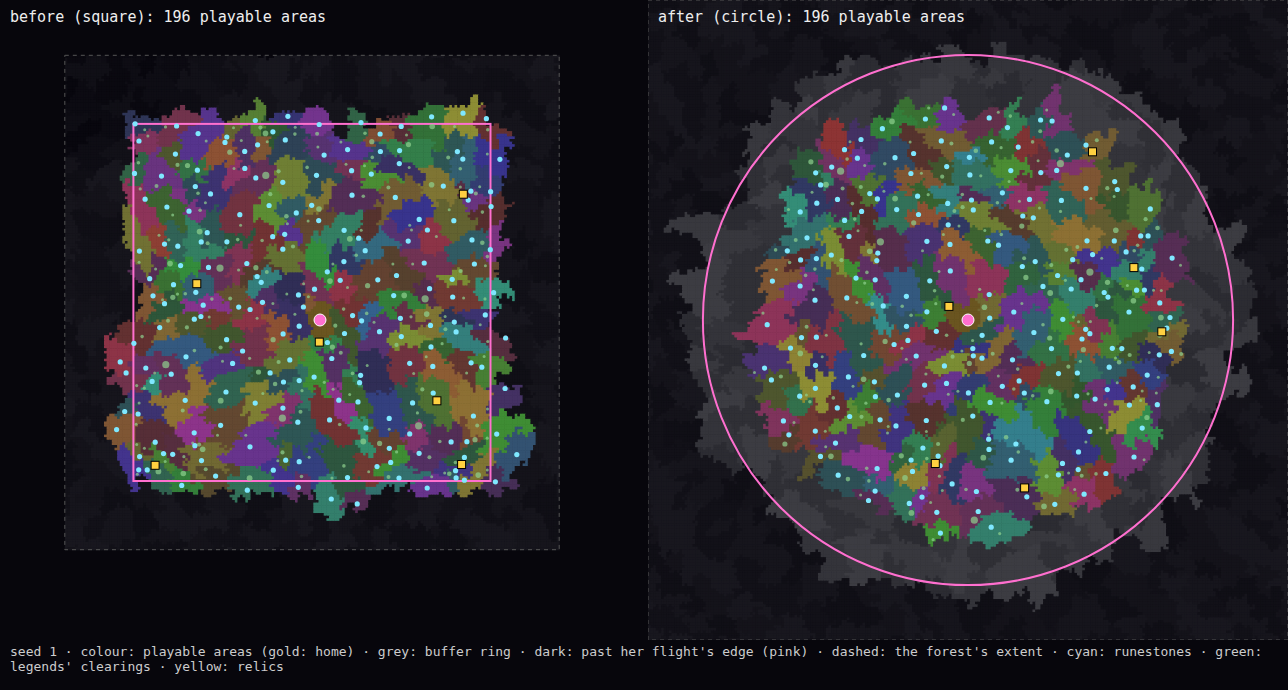
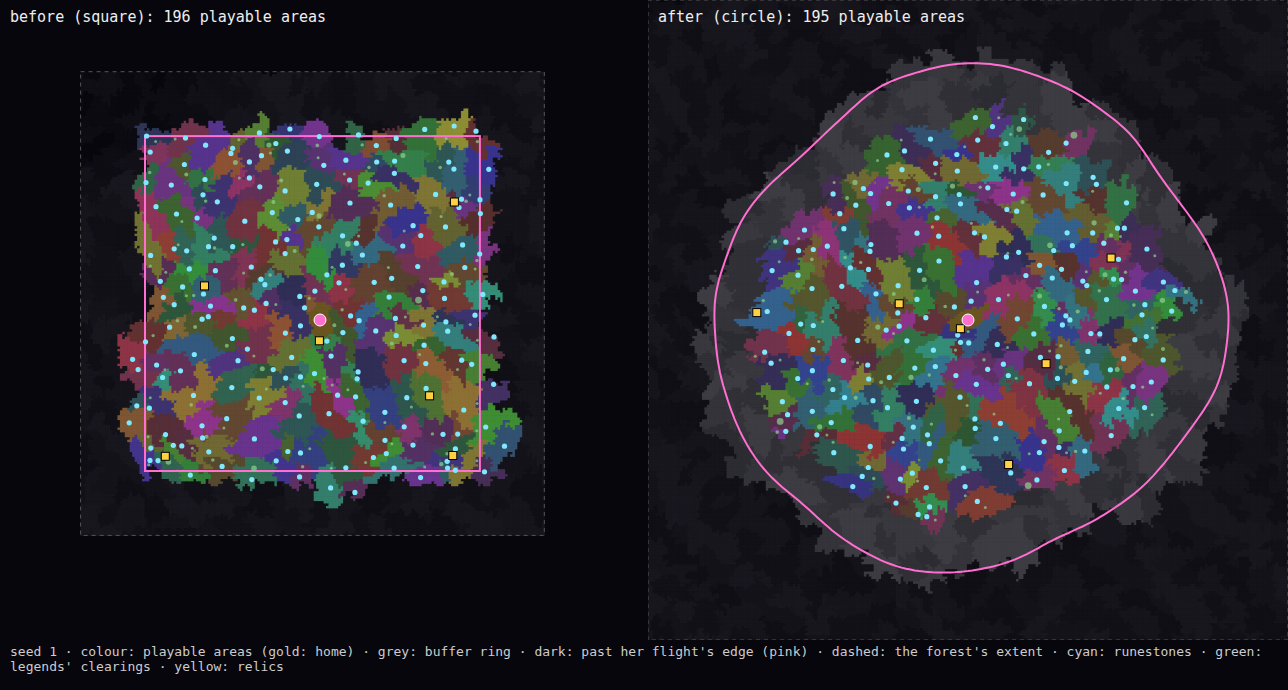
Irregular coast (Ed, 2026-10-06): a seeded, gentle wobble on every edge round home
"The island shouldn't be a totally perfect circle; make the coast
slightly irregular." makeCoast (rules/mapShape.ts) gives the coast's
radius at an angle as a factor of the round one: three low harmonics
(gentle bays and headlands) and a little finer detail, within ±amp (8%).
map.coast(angle) is that function for the map, and every edge uses it:
the playable areas (their centres within radius x coast), the buffer's,
and her flight (bounds.circle.coast: keepIn, isInside, exitPoint,
softEdge); the ley route, legends, relics and the minimap follow from the
playable areas. The grid doesn't change with it, so the coast's knobs
never reshuffle the map. ?shape=square unchanged.

The ley route's first petal now starts at the first of home's
neighbours round from its seeded angle, so every route leaves from
beside home (on two seeds it began two areas out). 200 seeds: no
crossings. Two seeded tests made robust: the sleeping legend's kin are
friendly, and the dream test walks the playable areas.

Claude-Session: https://claude.ai/code/session_01MR6jyHx6mcGYyfzATvhXK3

Changed region(s): [[0.4969, 0.0609, 0.9938, 0.8826], [0.0621, 0.1522, 0.4348, 0.7609]]

diff --git a/src/rules/mapShape.test.ts b/src/rules/mapShape.test.ts
@@ -7,7 +7,7 @@ import { Forest } from "./forest";
 import { spawnCreatures } from "./creatures";
 import { soundsystemFor, wavePlan, newParty } from "./party";
 import { placeRelics } from "./legends";
-import { exitPoint, isInside, keepIn, softEdge } from "./mapShape";
+import { edgeRadius, exitPoint, isInside, keepIn, makeCoast, softEdge } from "./mapShape";
 import { newWitch, stepWitch, type WitchState } from "./witch";
 import { TUNING } from "./tuning";
 
@@ -23,7 +23,7 @@ describe("the circular map", () => {
       expect(map.cells.length).toBeLessThanOrEqual(225);
       expect(map.playable(map.centreCell[0], map.centreCell[1])).toBe(true);
       expect(Math.hypot(c.x - map.dancefloor.x, c.z - map.dancefloor.z)).toBeLessThan(1); // (centred on home)
-      expect(c.r).toBeCloseTo((M.radius + 0.5 + M.buffer) * A, 3);
+      expect(c.r).toBeCloseTo((M.radius + 0.5 + M.buffer) * A, 3); // (round: times the coast at each angle)
       // the buffer ring is there, all round, and plays no part
       const ring = new Set<number>();
       for (let y = 0; y < map.n; y++) for (let x = 0; x < map.n; x++) if (map.inBuffer(x, y)) {
@@ -33,21 +33,37 @@ describe("the circular map", () => {
         ring.add(Math.floor(((Math.atan2(s.z - c.z, s.x - c.x) + Math.PI) / (2 * Math.PI)) * 8));
       }
       expect(ring.size).toBe(8);
-      // runestones, soundsystems, legends' clearings, creatures, relics: inside the edge less the buffer
-      const inner = c.r - M.buffer * A, from = (x: number, z: number) => Math.hypot(x - c.x, z - c.z);
-      for (const [cx, cy] of map.cells) { const s = soundsystemFor(map, [cx, cy]); expect(from(s.x, s.z), `soundsystem ${cx},${cy}`).toBeLessThan(inner); }
-      for (const lc of map.legendClearings) expect(from(lc.x, lc.z) + lc.r).toBeLessThan(inner);
+      // runestones, soundsystems, legends' clearings, creatures, relics: inside the edge less the buffer (at least buffer x (1 - amp) deep, along the coast)
+      const inner = (x: number, z: number) => edgeRadius(c, x, z) - M.buffer * A * (1 - M.coast!.amp), from = (x: number, z: number) => Math.hypot(x - c.x, z - c.z);
+      for (const [cx, cy] of map.cells) { const s = soundsystemFor(map, [cx, cy]); expect(from(s.x, s.z), `soundsystem ${cx},${cy}`).toBeLessThan(inner(s.x, s.z)); }
+      for (const lc of map.legendClearings) expect(from(lc.x, lc.z) + lc.r).toBeLessThan(inner(lc.x, lc.z));
       const creatures = spawnCreatures(map);
       for (const k of creatures) expect(map.playable(k.cell[0], k.cell[1])).toBe(true);
-      for (const r of placeRelics(map, new Forest(map))) { expect(map.playable(r.cell[0], r.cell[1])).toBe(true); expect(from(r.x, r.z)).toBeLessThan(inner); }
+      for (const r of placeRelics(map, new Forest(map))) { expect(map.playable(r.cell[0], r.cell[1])).toBe(true); expect(from(r.x, r.z)).toBeLessThan(inner(r.x, r.z)); }
       // waves only ever wake playable areas
       for (const k of wavePlan(newParty(map), map).keys()) { const [x, y] = k.split(",").map(Number); expect(map.playable(x, y), k).toBe(true); }
       // the forest goes on past the edge, into the fog
       const e = map.extent;
-      expect(e.minX).toBeLessThan(c.x - c.r - A); expect(e.maxX).toBeGreaterThan(c.x + c.r + A);
-      expect(e.minZ).toBeLessThan(c.z - c.r - A); expect(e.maxZ).toBeGreaterThan(c.z + c.r + A);
+      for (let k = 0; k < 64; k++) { const a = (k / 64) * Math.PI * 2, r = c.r * map.coast(a) + A, x = c.x + Math.cos(a) * r, z = c.z + Math.sin(a) * r; expect(x > e.minX && x < e.maxX && z > e.minZ && z < e.maxZ, `past the coast at ${a.toFixed(2)}`).toBe(true); }
     });
   }
+
+  it("has an irregular coast (Ed, 2026-10-06): gentle, seeded, round on the whole, the same function for every edge", () => {
+    const k = TUNING.map!.coast!, a = (i: number) => (i / 360) * Math.PI * 2;
+    for (const seed of SEEDS) {
+      const map = generateMap(seed, TUNING), f = Array.from({ length: 360 }, (_, i) => map.coast(a(i)));
+      expect(Math.max(...f)).toBeLessThanOrEqual(1 + k.amp + 1e-9);
+      expect(Math.min(...f)).toBeGreaterThanOrEqual(1 - k.amp - 1e-9);
+      expect(Math.max(...f) - Math.min(...f)).toBeGreaterThan(k.amp * 0.6); // (not round: bays and headlands)
+      expect(Math.abs(f.reduce((t, v) => t + v, 0) / f.length - 1)).toBeLessThan(0.01); // (as big as the round island on the whole)
+      let steepest = 0; for (let i = 0; i < 360; i++) steepest = Math.max(steepest, Math.abs(f[(i + 1) % 360] - f[i]) / (Math.PI / 180));
+      expect(steepest).toBeLessThan(0.5); // (gentle: the coast never turns more than about 27 degrees off round)
+      expect(map.bounds.circle!.coast).toBe(map.coast); // (her flight's edge is the coast)
+    }
+    expect(generateMap(1, TUNING).coast(1)).toBe(generateMap(1, TUNING).coast(1));
+    expect(makeCoast(1, k)(1)).not.toBe(makeCoast(2, k)(1));
+    expect(makeCoast(1, { ...k, amp: 0 })(1)).toBe(1);
+  });
 
   it("?shape=square: the old 14 x 14 square, exactly", () => {
     const T = { ...TUNING, map: { ...TUNING.map!, shape: "square" as const } }, map = generateMap(1, T), old = generateMap(1, { ...TUNING, map: undefined });
@@ -55,6 +71,7 @@ describe("the circular map", () => {
     expect(map.n).toBe(TUNING.mapAreas);
     expect(map.cells.length).toBe(TUNING.mapAreas ** 2);
     expect(map.bounds.circle).toBeUndefined();
+    expect(map.coast(1)).toBe(1);
     expect(map.bounds).toEqual(old.bounds);
     expect(map.extent).toEqual(old.extent);
     expect(map.legendClearings).toEqual(old.legendClearings);
@@ -70,26 +87,26 @@ describe("her flight's edge", () => {
       let w: WitchState = { ...newWitch(c.x, c.z), mode: "treetop", lift: 1 };
       for (let i = 0; i < 60 * 40; i++) w = stepWitch(w, { ...idle, moveX: Math.cos(a), moveZ: Math.sin(a) }, 1 / 60, TUNING, map.bounds);
       const d = Math.hypot(w.x - c.x, w.z - c.z);
-      expect(d).toBeLessThanOrEqual(c.r + 1e-6);
-      expect(d).toBeGreaterThan(c.r - TUNING.map!.push); // (she gets into the soft band)
+      expect(d).toBeLessThanOrEqual(edgeRadius(c, w.x, w.z) + 1e-6);
+      expect(d).toBeGreaterThan(edgeRadius(c, w.x, w.z) - TUNING.map!.push); // (she gets into the soft band)
     }
     // the corners of its box are out of it
     expect(isInside(map.bounds, map.bounds.maxX - 5, map.bounds.maxZ - 5)).toBe(false);
-    expect(keepIn(map.bounds, c.x + c.r * 2, c.z)).toEqual({ x: c.x + c.r, z: c.z });
+    expect(keepIn(map.bounds, c.x + c.r * 2, c.z)).toEqual({ x: c.x + c.r * map.coast(0), z: c.z });
     const e = exitPoint(map.bounds, c.x, c.z + c.r - 10, 30);
-    expect(Math.hypot(e.x - c.x, e.z - c.z)).toBeCloseTo(c.r + 30, 6);
+    expect(Math.hypot(e.x - c.x, e.z - c.z)).toBeCloseTo(c.r * map.coast(Math.PI / 2) + 30, 6);
   });
 
   it("is soft: her speed outward eases off over its band, and she drifts back in when she lets go", () => {
-    const P = TUNING.map!.push, v = (d: number) => softEdge(map.bounds, c.x + d, c.z, 50, 0, 50, P, TUNING.map!.drift).vx;
-    expect(v(c.r - P - 1)).toBe(50);
-    expect(v(c.r - P * 0.75)).toBeLessThan(50);
-    expect(v(c.r - P * 0.75)).toBeGreaterThan(v(c.r - P * 0.4));
-    expect(v(c.r)).toBeLessThan(0);
+    const P = TUNING.map!.push, r = c.r * map.coast(0), v = (d: number) => softEdge(map.bounds, c.x + d, c.z, 50, 0, 50, P, TUNING.map!.drift).vx;
+    expect(v(r - P - 1)).toBe(50);
+    expect(v(r - P * 0.75)).toBeLessThan(50);
+    expect(v(r - P * 0.75)).toBeGreaterThan(v(r - P * 0.4));
+    expect(v(r)).toBeLessThan(0);
     // tangential flight along the edge is left alone
-    expect(softEdge(map.bounds, c.x + c.r - 5, c.z, 0, 40, 50, P, 0).vz).toBe(40);
-    let w: WitchState = newWitch(c.x + c.r - 2, c.z);
+    expect(softEdge(map.bounds, c.x + r - 5, c.z, 0, 40, 50, P, 0).vz).toBe(40);
+    let w: WitchState = newWitch(c.x + r - 2, c.z);
     for (let i = 0; i < 60 * 3; i++) w = stepWitch(w, idle, 1 / 60, TUNING, map.bounds);
-    expect(Math.hypot(w.x - c.x, w.z - c.z)).toBeLessThan(c.r - 2);
+    expect(Math.hypot(w.x - c.x, w.z - c.z)).toBeLessThan(r - 2);
   });
 });

diff --git a/src/rules/map.ts b/src/rules/map.ts
@@ -14,7 +14,7 @@ import { floorClearing, speakerRadius, speakerRing, type Speaker } from "./speak
  *  the dance floor, outside the speaker ring"): past the ring's outer edge by gap, plus its footprint. */
 export const treehouseDistance = (t: Tuning) => speakerRadius(t) + t.dancefloor.speakers.footprint + t.treehouse.gap + t.treehouse.clear;
 import { PathNetwork } from "./paths";
-import { isInside, type Bounds } from "./mapShape";
+import { isInside, makeCoast, type Bounds } from "./mapShape";
 
 /** An area type: Ed's 30 are defined with their art in art/areas.js; config/area-types.json adds
  *  the game's own numbers. Only plain data is read here. */
@@ -98,6 +98,10 @@ export interface ForestMap {
   playable(cx: number, cy: number): boolean;
   /** Is this area in the buffer ring: not playable, but where she can fly (scenery only)? */
   inBuffer(cx: number, cy: number): boolean;
+  /** The coast (Ed, 2026-10-06: "slightly irregular"): every edge round home, at an angle (radians,
+   *  atan2(dz, dx) from the dancefloor), as a factor of its round radius (1 on the square map). The
+   *  playable areas reach radius x coast, the buffer and her flight (bounds.circle) theirs x coast. */
+  coast(angle: number): number;
   readonly areaSize: number;
   readonly partition: Partition;
   /** The middle area, whose clearing holds the dancefloor. */
@@ -218,6 +222,10 @@ export function generateMap(seed: number, tuning: Tuning): ForestMap {
   const MS = tuning.map ?? { shape: "square" as const, radius: 0, buffer: 0, push: 0, drift: 0, edge: 2 };
   const shape: "circle" | "square" = MS.shape === "circle" ? "circle" : "square", round = shape === "circle";
   const R = MS.radius, flightR = (R + 0.5 + MS.buffer) * A, edgeK = MS.edge ?? 2;
+  // The coast's wobble (Ed, 2026-10-06): seeded, the same for every edge; the forest's extent covers its furthest headland.
+  // (The grid doesn't change with it, so the coast's knobs never reshuffle the map: its slack of an area holds the
+  // playable areas' furthest headland, and the buffer's past it are the forest's anyway.)
+  const coast = round ? makeCoast(seed, MS.coast) : () => 1, most = 1 + (round ? Math.max(0, MS.coast?.amp ?? 0) : 0);
   const n = round ? 2 * Math.ceil(R + 0.5 + MS.buffer + 1) + 1 : tuning.mapAreas, margin = round ? Math.ceil(edgeK) : 2;
   // Areas vary in size: the world is warped smoothly before it is cut, so in some stretches of
   // the map the cells spread out (big areas) and in others they crowd (small ones). The warp
@@ -253,7 +261,7 @@ export function generateMap(seed: number, tuning: Tuning): ForestMap {
   }
   const partition = makePartition(seed, tuning.borderLayers, { cell: centreCell, radius: homeR * 1.03, gap: H.gap });
   // (circular: the extent a square round the flight circle, edge areas past it; the cells it covers, and one more for the warp)
-  const ext = round ? { minX: homeWorld[0] - flightR - edgeK * A, maxX: homeWorld[0] + flightR + edgeK * A, minZ: homeWorld[1] - flightR - edgeK * A, maxZ: homeWorld[1] + flightR + edgeK * A } : null;
+  const ext = round ? { minX: homeWorld[0] - flightR * most - edgeK * A, maxX: homeWorld[0] + flightR * most + edgeK * A, minZ: homeWorld[1] - flightR * most - edgeK * A, maxZ: homeWorld[1] + flightR * most + edgeK * A } : null;
   const lo = ext ? Math.floor(Math.min(ext.minX, ext.minZ) / A) - 1 : -margin, hi = ext ? Math.ceil(Math.max(ext.maxX, ext.maxZ) / A) + 1 : n + margin;
   const neighbours = findNeighbours(partition, lo, hi, 6);
 
@@ -277,7 +285,8 @@ export function generateMap(seed: number, tuning: Tuning): ForestMap {
   const siteOf = (cx: number, cy: number) => { const s = partition.site(cx, cy), w = toWorld(s[0], s[1]); return { x: w[0], z: w[1] }; };
   const centre = siteOf(centreCell[0], centreCell[1]);
   // The playable areas and the buffer ring, by their centres' distance from home's.
-  const fromHome = (cx: number, cy: number) => { const s = siteOf(cx, cy); return Math.hypot(s.x - centre.x, s.z - centre.z); };
+  // (each by how far its centre lies out along its own direction, as a share of the coast there)
+  const fromHome = (cx: number, cy: number) => { const s = siteOf(cx, cy), dx = s.x - centre.x, dz = s.z - centre.z; return Math.hypot(dx, dz) / coast(Math.atan2(dz, dx)); };
   const playable = (cx: number, cy: number) => cx >= 0 && cy >= 0 && cx < n && cy < n && (!round || fromHome(cx, cy) <= R * A);
   const inBuffer = (cx: number, cy: number) => round && !playable(cx, cy) && fromHome(cx, cy) <= flightR + A * 0.5;
   const cells: Cell[] = [];
@@ -429,10 +438,10 @@ export function generateMap(seed: number, tuning: Tuning): ForestMap {
   const remoteness = (cx: number, cy: number) => Math.min(1, Math.hypot(cx - centreCell[0], cy - centreCell[1]) / (round ? R : n / 2));
   const pad = A * 0.5;
   const bounds: Bounds = round
-    ? { minX: centre.x - flightR, maxX: centre.x + flightR, minZ: centre.z - flightR, maxZ: centre.z + flightR, circle: { x: centre.x, z: centre.z, r: flightR } }
+    ? { minX: centre.x - flightR * most, maxX: centre.x + flightR * most, minZ: centre.z - flightR * most, maxZ: centre.z + flightR * most, circle: { x: centre.x, z: centre.z, r: flightR, coast } }
     : { minX: pad, maxX: n * A - pad, minZ: pad, maxZ: n * A - pad };
   const map = {
-    seed, tuning, n, margin, shape, cells, playable, inBuffer, areaSize: A, partition, centreCell, homeRadius,
+    seed, tuning, n, margin, shape, cells, playable, inBuffer, coast, areaSize: A, partition, centreCell, homeRadius,
     dancefloor: { x: centre.x, z: centre.z, radius: floorR, speakers: speakerRing(centre, tuning) },
     treehouse, treehouseFront: { x: treehouse.x, z: treehouse.z + tuning.treehouse.clear }, grounds, scenes,
     start: { x: treehouse.x, z: treehouse.z + 1 },

diff --git a/src/rules/mapShape.ts b/src/rules/mapShape.ts
@@ -2,19 +2,45 @@
 // a buffer zone with no runestones around the edge"): where she may fly, as a box (the square map,
 // ?shape=square) or a circle round home (the circular one), and the helpers that keep a point in it.
 // The circle's edge is soft: over its last `push` metres her outward speed eases to nothing and a
-// little drift takes her back in.
+// little drift takes her back in. Its coast isn't a perfect circle (Ed, 2026-10-06: "The island
+// shouldn't be a totally perfect circle; make the coast slightly irregular"): every edge round home
+// (the playable areas', the buffer's, her flight's) is its radius times the coast at that angle (makeCoast; map.coast).
+
+import { rng } from "./random";
+
+/** The coast's knobs: amp, the most it strays from round (a share of the radius); harmonics, how many
+ *  gentle bays and headlands (the 2nd harmonic up); detail, a little finer wobble on top (its share). */
+export interface CoastKnobs { amp: number; harmonics: number; detail: number }
+
+/** The coast round home for a seed: its radius at an angle (radians, atan2(z, x) from home) as a
+ *  factor of the round radius, 1 - amp to 1 + amp. Low harmonics with seeded weights and phases,
+ *  a few finer ones for detail; the same function for every edge, and for the beach and sea. */
+export function makeCoast(seed: number, k: CoastKnobs | undefined): (angle: number) => number {
+  if (!k || k.amp <= 0) return () => 1;
+  const r = rng(seed * 7121 + 4049), terms: [number, number, number][] = []; // (harmonic, weight, phase)
+  for (let h = 0; h < Math.max(1, Math.round(k.harmonics)); h++) terms.push([2 + h, 0.5 + 0.5 * r(), r() * Math.PI * 2]);
+  const fine = [7, 11, 17, 23];
+  for (let i = 0; i < fine.length; i++) terms.push([fine[i], k.detail * 0.5 ** i * (0.5 + 0.5 * r()), r() * Math.PI * 2]);
+  const total = terms.reduce((t, [, w]) => t + w, 0) || 1;
+  return (angle: number) => { let s = 0; for (const [h, w, ph] of terms) s += w * Math.sin(h * angle + ph); return 1 + k.amp * (s / total); };
+}
 
 /** Where she may fly (metres): the box round it, and, on the circular map, the circle itself. */
 export interface Bounds {
   minX: number; maxX: number; minZ: number; maxZ: number;
-  /** The circular map's flight circle (centre and radius, metres); absent on the square map. */
-  circle?: { x: number; z: number; r: number };
+  /** The circular map's flight circle (centre and round radius, metres; its edge at an angle r times coast(angle)); absent on the square map. */
+  circle?: { x: number; z: number; r: number; coast?: (angle: number) => number };
+}
+
+/** The flight edge's radius (metres) in the direction of (x, z) from the circle's centre. */
+export function edgeRadius(c: NonNullable<Bounds["circle"]>, x: number, z: number): number {
+  return c.coast ? c.r * c.coast(Math.atan2(z - c.z, x - c.x)) : c.r;
 }
 
 /** The nearest point to (x, z) inside the bounds, `pad` metres in from the edge. */
 export function keepIn(b: Bounds, x: number, z: number, pad = 0): { x: number; z: number } {
   if (b.circle) {
-    const c = b.circle, dx = x - c.x, dz = z - c.z, d = Math.hypot(dx, dz), r = c.r - pad;
+    const c = b.circle, dx = x - c.x, dz = z - c.z, d = Math.hypot(dx, dz), r = edgeRadius(c, x, z) - pad;
     return d <= r || d < 1e-9 ? { x, z } : { x: c.x + (dx / d) * r, z: c.z + (dz / d) * r };
   }
   return { x: Math.min(b.maxX - pad, Math.max(b.minX + pad, x)), z: Math.min(b.maxZ - pad, Math.max(b.minZ + pad, z)) };
@@ -22,14 +48,14 @@ export function keepIn(b: Bounds, x: number, z: number, pad = 0): { x: number; z
 
 /** Is (x, z) inside the bounds, more than `pad` metres in from the edge? */
 export function isInside(b: Bounds, x: number, z: number, pad = 0): boolean {
-  if (b.circle) return Math.hypot(x - b.circle.x, z - b.circle.z) < b.circle.r - pad;
+  if (b.circle) return Math.hypot(x - b.circle.x, z - b.circle.z) < edgeRadius(b.circle, x, z) - pad;
   return x > b.minX + pad && x < b.maxX - pad && z > b.minZ + pad && z < b.maxZ - pad;
 }
 
 /** A point `beyond` metres past the edge nearest (x, z): where a creature running off the map makes for. */
 export function exitPoint(b: Bounds, x: number, z: number, beyond: number): { x: number; z: number } {
   if (b.circle) {
-    const c = b.circle, dx = x - c.x, dz = z - c.z, d = Math.hypot(dx, dz) || 1, r = c.r + beyond;
+    const c = b.circle, dx = x - c.x, dz = z - c.z, d = Math.hypot(dx, dz) || 1, r = edgeRadius(c, x, z) + beyond;
     return { x: c.x + (dx / d) * r, z: c.z + (dz / d) * r };
   }
   const edges = [[b.minX - beyond, z, x - b.minX], [b.maxX + beyond, z, b.maxX - x], [x, b.minZ - beyond, z - b.minZ], [x, b.maxZ + beyond, b.maxZ - z]];
@@ -43,9 +69,9 @@ export function exitPoint(b: Bounds, x: number, z: number, beyond: number): { x:
 export function softEdge(b: Bounds, x: number, z: number, vx: number, vz: number, max: number, push: number, drift: number): { vx: number; vz: number } {
   const c = b.circle;
   if (!c || push <= 0) return { vx, vz };
-  const dx = x - c.x, dz = z - c.z, d = Math.hypot(dx, dz);
-  if (d < c.r - push || d < 1e-9) return { vx, vz };
-  const nx = dx / d, nz = dz / d, k = Math.min(1, (d - (c.r - push)) / push);
+  const dx = x - c.x, dz = z - c.z, d = Math.hypot(dx, dz), r = edgeRadius(c, x, z);
+  if (d < r - push || d < 1e-9) return { vx, vz };
+  const nx = dx / d, nz = dz / d, k = Math.min(1, (d - (r - push)) / push);
   const out = vx * nx + vz * nz, allowed = (1 - k) * max - drift * Math.max(0, 2 * k - 1);
   if (out <= allowed) return { vx, vz };
   return { vx: vx - nx * (out - allowed), vz: vz - nz * (out - allowed) };

diff --git a/src/rules/tuning.ts b/src/rules/tuning.ts
@@ -42,7 +42,7 @@ export interface Mood {
 export interface Tuning {
   mapAreas: number;
   /** The map's shape (Ed, 2026-10-06: "circular rather than square, with a buffer zone with no runestones around the edge"): circle: the playable areas those within radius areas of home, a buffer ring buffer areas deep past them (forest she can fly over, nothing in it), her flight's edge soft over its last push metres (her outward speed easing to nothing, a drift of drift m/s back in), and the forest going on edge areas past it; square: mapAreas x mapAreas as before (?shape=square). */
-  map?: { shape: "circle" | "square"; radius: number; buffer: number; push: number; drift: number; edge?: number };
+  map?: { shape: "circle" | "square"; radius: number; buffer: number; push: number; drift: number; edge?: number; /** the coast's wobble (Ed, 2026-10-06: "slightly irregular"): rules/mapShape.ts makeCoast */ coast?: { amp: number; harmonics: number; detail: number } };
   areaSize: number;
   areaScale: number;
   /** Each area's fighting arena: mostly open within radius metres of its centre and soundsystem, the woods thickening smoothly over a band band metres wide (both times fight.scale), its edge wobbled by noise (a share of the band); bushes and tufts: the share of the undergrowth and ground cover left in its open middle. */

diff --git a/src/rules/witch.ts b/src/rules/witch.ts
@@ -94,7 +94,7 @@ export function stepWitch(w: WitchState, intent: Intent, dt: number, t: Tuning, 
   const boost = top.boost * L, braking = top.braking && L > 0.5;
   if (bounds.circle) ({ vx, vz } = softEdge(bounds, w.x, w.z, vx, vz, Math.max(max, Math.hypot(vx, vz)), t.map?.push ?? 0, t.map?.drift ?? 0)); // (the circular map's soft edge)
   let x = w.x + vx * dt, z = w.z + vz * dt;
-  if (bounds.circle) { const p = keepIn(bounds, x, z); if (p.x !== x || p.z !== z) { const c = bounds.circle, nx = (p.x - c.x) / c.r, nz = (p.z - c.z) / c.r, out = vx * nx + vz * nz; if (out > 0) { vx -= nx * out; vz -= nz * out; } x = p.x; z = p.z; } }
+  if (bounds.circle) { const p = keepIn(bounds, x, z); if (p.x !== x || p.z !== z) { const c = bounds.circle, l = Math.hypot(p.x - c.x, p.z - c.z) || 1, nx = (p.x - c.x) / l, nz = (p.z - c.z) / l, out = vx * nx + vz * nz; if (out > 0) { vx -= nx * out; vz -= nz * out; } x = p.x; z = p.z; } }
   else {
     if (x < bounds.minX || x > bounds.maxX) { x = clamp(x, bounds.minX, bounds.maxX); vx = 0; }
     if (z < bounds.minZ || z > bounds.maxZ) { z = clamp(z, bounds.minZ, bounds.maxZ); vz = 0; }

diff --git a/src/rules/sleeping.test.ts b/src/rules/sleeping.test.ts
@@ -14,7 +14,8 @@ function beside(): { g: Game; L: Game["creatures"][number] } {
   // (beside it on its area's side: legends lie out toward their area's edge)
   const site = g.map.siteOf(L.cell[0], L.cell[1]), d = Math.hypot(site.x - L.x, site.z - L.z) || 1;
   g.witch = { ...g.witch, seated: false, x: L.x + ((site.x - L.x) / d) * 4, z: L.z + ((site.z - L.z) / d) * 4, mode: "ground", lift: 0 };
-  for (const c of g.creatures) if (!c.boss && Math.hypot(c.x - L.x, c.z - L.z) < (c.species === L.species ? 40 : 120)) c.gone = true; // just the two of them (and its own kin, which never fight it, further off: without them it grows restless; near, they'd fight her)
+  for (const c of g.creatures) if (!c.boss && c.species !== L.species && Math.hypot(c.x - L.x, c.z - L.z) < 120) c.gone = true; // just the two of them (and its own kin, which never fight it: without them it grows restless)
+  for (const c of g.creatures) if (!c.boss && c.species === L.species) c.friendly = true; // (its kin leave her be, as a friendly area's do, wherever they wander)
   g.byArea = null;
   g.witches[0].health.hp = 1e6;
   return { g, L };

diff --git a/src/rules/leyroute.ts b/src/rules/leyroute.ts
@@ -76,7 +76,10 @@ export function variedOrder(map: ForestMap): string[] {
     all.push({ k, r: Math.hypot(q.x - d.x, q.z - d.z), a: Math.atan2(q.x - d.x, q.z - d.z) });
   }
   const near = all.filter(p => map.neighbours.get(home)?.has(p.k)), ring = near.length ? near.reduce((t, p) => t + p.r, 0) / near.length : map.areaSize;
-  const a0 = R() * TAU, dir = R() < 0.5 ? 1 : -1, rel = (p: Pt) => (dir > 0 ? wrap(p.a - a0) : wrap(a0 - p.a));
+  const seeded = R() * TAU, dir = R() < 0.5 ? 1 : -1;
+  // (the first petal starts just before the first of home's neighbours round from the seeded angle, so the route always leaves from beside home)
+  const first = near.length ? near.reduce((m, p) => (wrap(dir * (p.a - seeded)) < wrap(dir * (m.a - seeded)) ? p : m)) : null;
+  const a0 = first ? first.a - dir * 1e-3 : seeded, rel = (p: Pt) => (dir > 0 ? wrap(p.a - a0) : wrap(a0 - p.a));
   const out: string[] = [], used = new Set<string>();
   const take = (list: Pt[]) => { for (const p of list) if (!used.has(p.k)) { used.add(p.k); out.push(p.k); } };
   const petal = (ps: Pt[], from: number, w: number) => {

diff --git a/src/rules/dream.test.ts b/src/rules/dream.test.ts
@@ -13,7 +13,7 @@ describe("a dream's direction", () => {
     expect(AREA_TYPES[map.typeOf(s.cell[0], s.cell[1])].creature).toBe(species);
     // none of its kind is nearer
     const d = Math.hypot(map.siteOf(s.cell[0], s.cell[1]).x - from.x, map.siteOf(s.cell[0], s.cell[1]).z - from.z);
-    for (let i = 0; i < map.n; i++) for (let j = 0; j < map.n; j++) if (AREA_TYPES[map.typeOf(i, j)].creature === species) expect(Math.hypot(map.siteOf(i, j).x - from.x, map.siteOf(i, j).z - from.z)).toBeGreaterThanOrEqual(d);
+    for (const [i, j] of map.cells) if (AREA_TYPES[map.typeOf(i, j)].creature === species) expect(Math.hypot(map.siteOf(i, j).x - from.x, map.siteOf(i, j).z - from.z)).toBeGreaterThanOrEqual(d);
     expect(dreamStone(map, "no-such-creature", from.x, from.z)).toBeNull();
   });
 

diff --git a/src/rules/rules.test.ts b/src/rules/rules.test.ts
@@ -121,7 +121,7 @@ describe("the map", () => {
   it("is a circle of about mapAreas x mapAreas areas with every area type (Ed's 30 and any recipes)", () => {
     expect(Math.abs(map.cells.length - TUNING.mapAreas ** 2)).toBeLessThan(TUNING.mapAreas * 2);
     expect(AREA_TYPES.length).toBeGreaterThanOrEqual(30);
-    expect(map.bounds.maxX - map.bounds.minX).toBeCloseTo(2 * map.bounds.circle!.r);
+    expect(map.bounds.maxX - map.bounds.minX).toBeCloseTo(2 * map.bounds.circle!.r * (1 + TUNING.map!.coast!.amp)); // (the box round its furthest headland)
   });
 
   it("never gives two touching areas the same type", () => {

diff --git a/config/KNOBS.md b/config/KNOBS.md
@@ -12,7 +12,7 @@ The forest: mapAreas x mapAreas areas cut by the fractal partition. An area is a
 
 ## `map`, `areaSize`, `areaScale`, `arena`, `areaSizeVariance`, `borderLayers`
 
-The map's shape (Ed, 2026-10-06: "The map as a whole should be circular rather than square, with a buffer zone with no runestones around the edge"). shape circle: the playable areas are those whose centres lie within radius areas of home's (7.9: about 196, as many as the old 14 x 14), and only they get runestones, soundsystems, legends, relics and creatures and wake in waves; past them a buffer ring buffer areas deep (1 to 1.5), forest she can fly over where nothing happens; her flight's edge is a circle, soft over its last push metres (her speed outward easing to nothing at the edge, and a drift of up to drift m/s taking her back in); the forest goes on edge areas past it, into the fog. shape square: mapAreas x mapAreas as before (?shape=square to compare). ?mapAreas=<n> on the circular map sets the radius for about n x n areas.
+The map's shape (Ed, 2026-10-06: "The map as a whole should be circular rather than square, with a buffer zone with no runestones around the edge"). shape circle: the playable areas are those whose centres lie within radius areas of home's (7.9: about 196, as many as the old 14 x 14), and only they get runestones, soundsystems, legends, relics and creatures and wake in waves; past them a buffer ring buffer areas deep (1 to 1.5), forest she can fly over where nothing happens; her flight's edge is a circle, soft over its last push metres (her speed outward easing to nothing at the edge, and a drift of up to drift m/s taking her back in); the forest goes on edge areas past it, into the fog. coast (Ed, 2026-10-06: "The island shouldn't be a totally perfect circle; make the coast slightly irregular"): every edge round home (the playable areas', the buffer's, her flight's) wobbles by the same seeded coast, up to amp of its radius in or out (0 for a perfect circle): harmonics gentle bays and headlands (from two round the island up), plus detail (a share) of finer wobble. shape square: mapAreas x mapAreas as before (?shape=square to compare). ?mapAreas=<n> on the circular map sets the radius for about n x n areas.
 
 | knob | type | range |
 |---|---|---|
@@ -22,6 +22,9 @@ The map's shape (Ed, 2026-10-06: "The map as a whole should be circular rather t
 | `map.push` | number | 0 to … |
 | `map.drift` | number | 0 to … |
 | `map.edge` | number | 0 to … |
+| `map.coast.amp` | number | 0 to … |
+| `map.coast.harmonics` | number | 0 to … |
+| `map.coast.detail` | number | 0 to … |
 | `areaSize` | number | 0 to … |
 | `areaScale` | number | 0 to … |
 | `arena.radius` | number | 0 to … |
